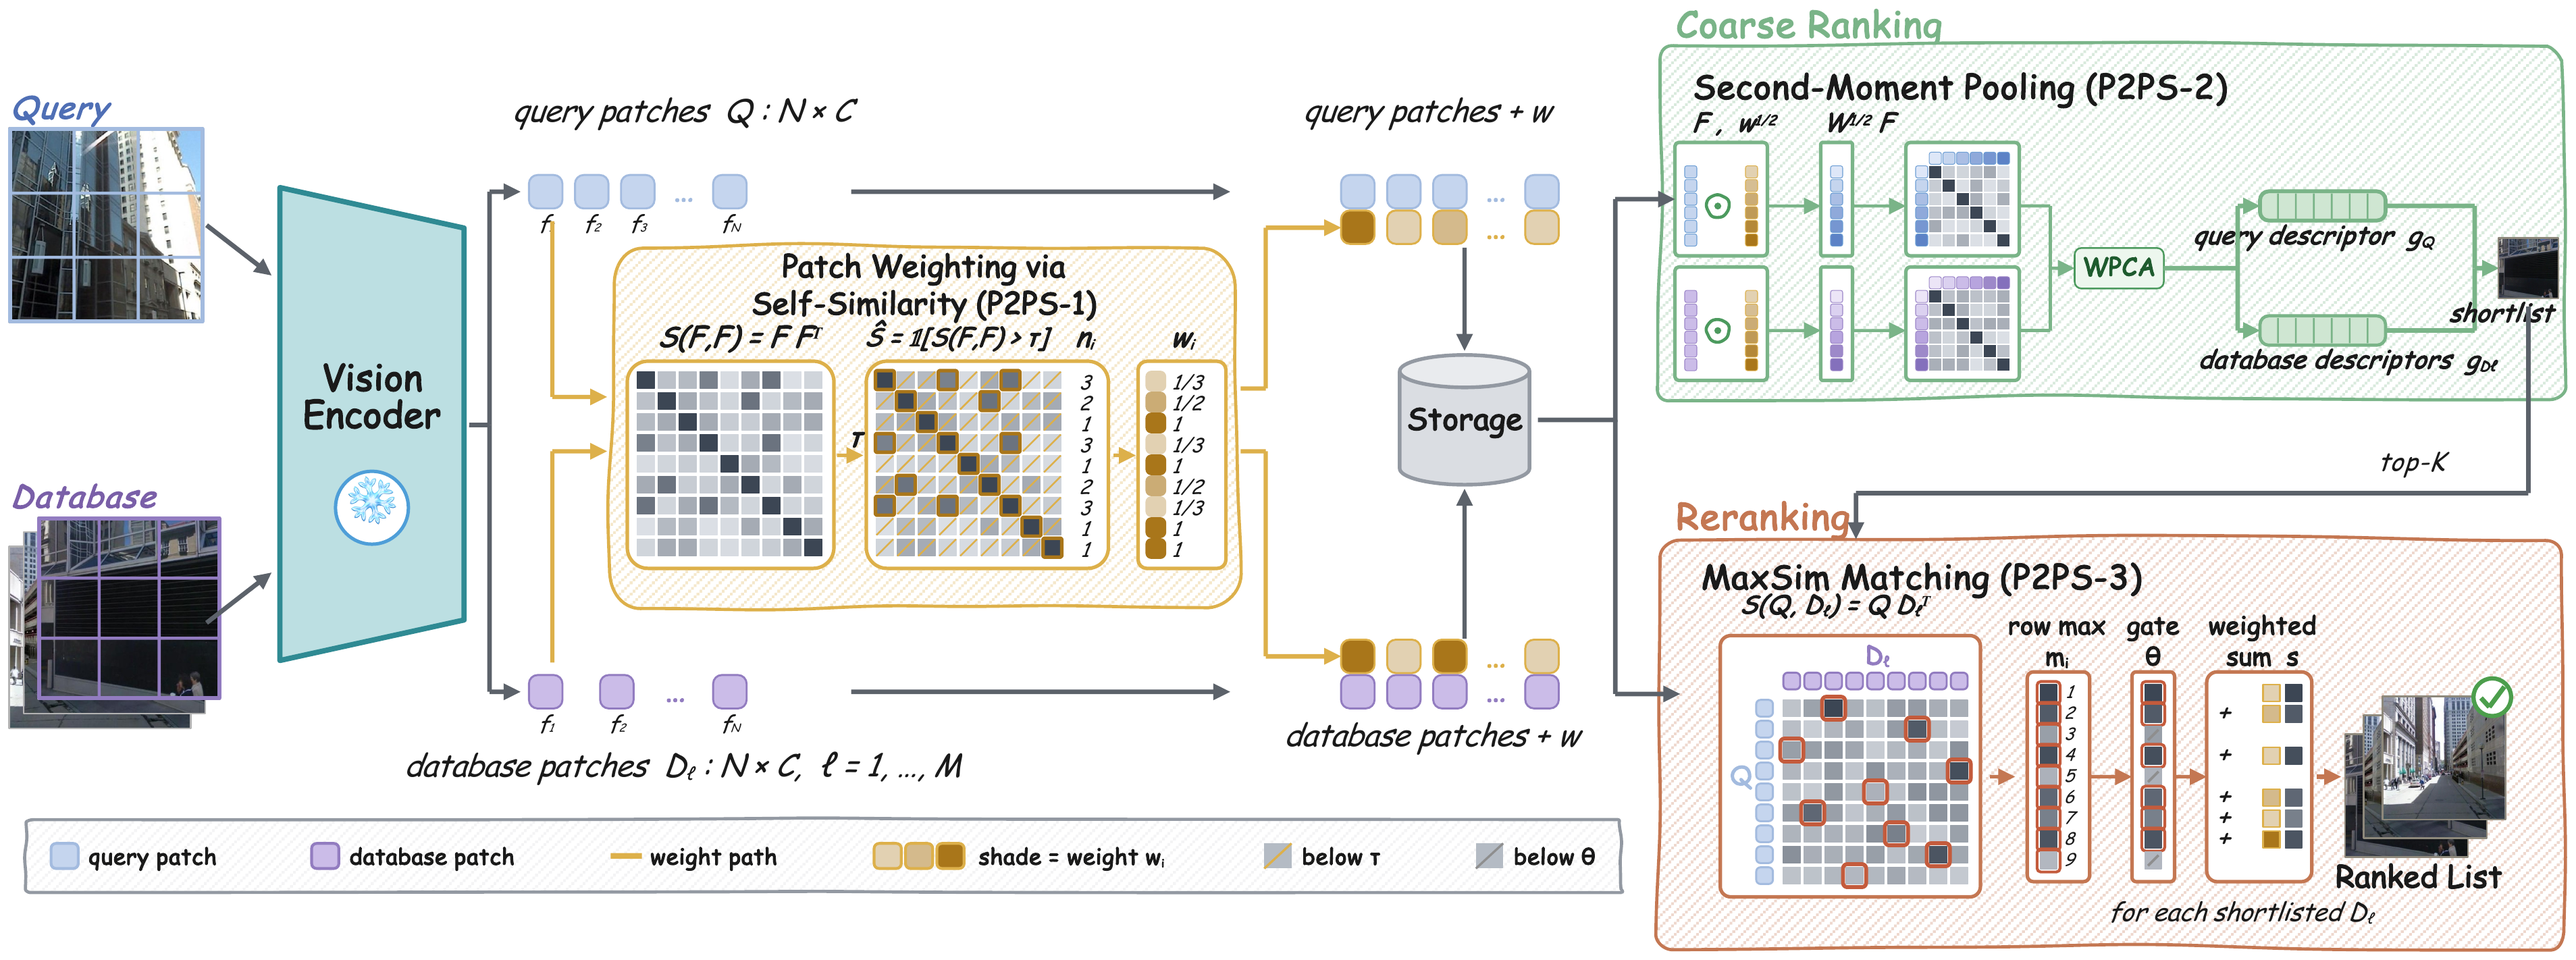
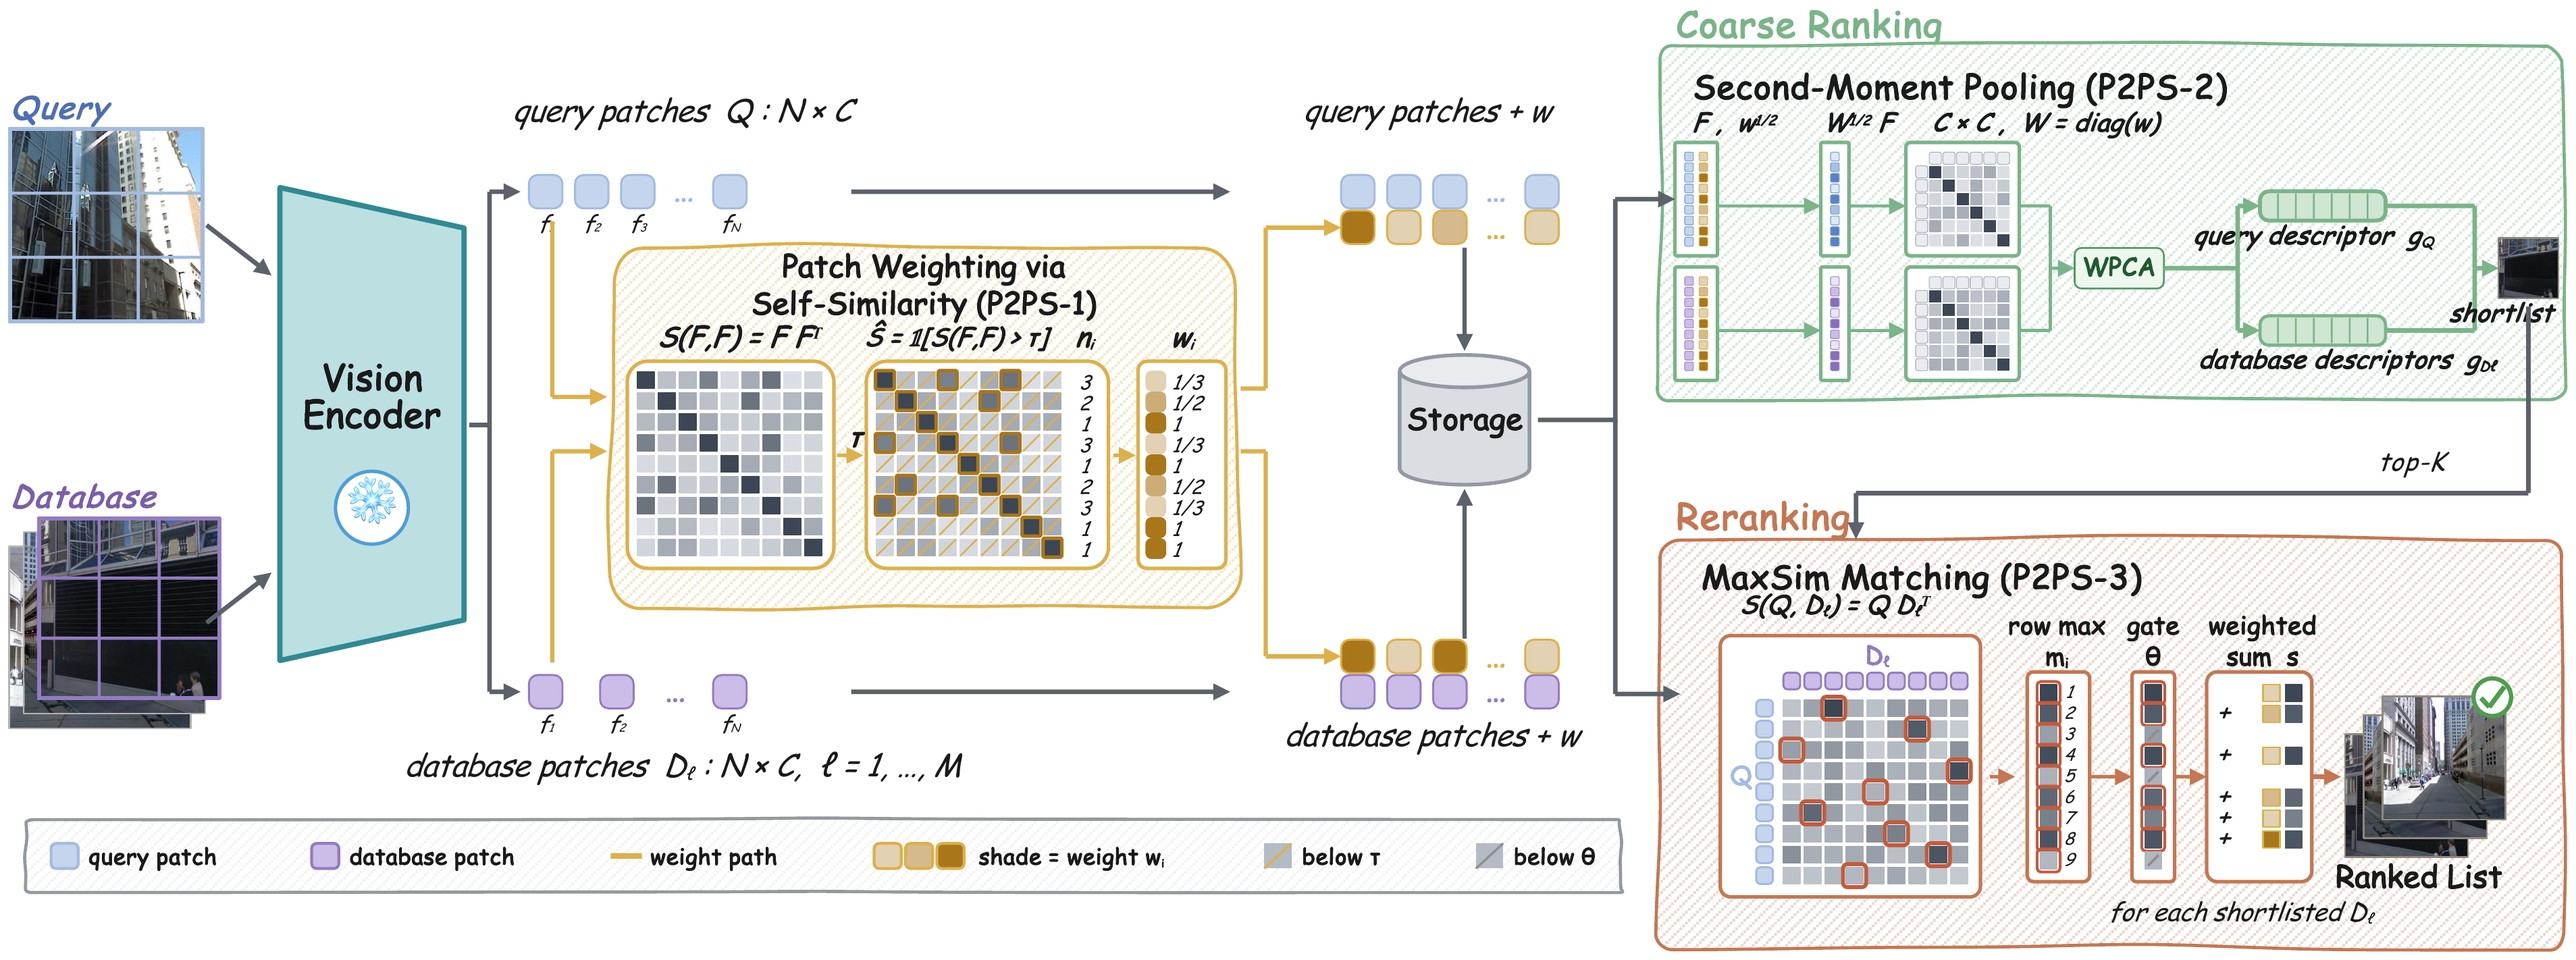
figure 2 coarse stage agrees with Eq. 3: N=9, the weights P2PS-1 produces, channel-indexed second-moment matrix; text states its shape

Changed region(s): [[0.655, 0.1238, 0.7486, 0.4023], [0.7486, 0.1238, 0.8422, 0.1857], [0.7486, 0.2785, 0.7798, 0.3094]]

diff --git a/sections/03_method.tex b/sections/03_method.tex
@@ -55,7 +55,7 @@ During coarse ranking, the query is compared with the whole database $\mathcal D
 \begin{equation}\label{eq:gc}
   S_C(F)=S\big((W^{1/2}F)^{\top},(W^{1/2}F)^{\top}\big)=F^{\top}WF=\sum_{i=1}^{N} w_i\,\mathbf f_i\mathbf f_i^{\top}.
 \end{equation}
-As $S_C$ is high-dimensional, we apply $\ell_2$ normalization and whitened PCA (WPCA), denoted $\rho$, to obtain a compact descriptor $\mathbf g=\rho(S_C)$ for efficient large-scale search.  % CHEN-CHECK: bcnn and mpncov are in the bib but not yet Scholar-checked.
+The weights act on the patch axis, so $S_C(F)\in\mathbb R^{C\times C}$ is indexed by feature channels, not by patches. As $S_C$ is high-dimensional, we apply $\ell_2$ normalization and whitened PCA (WPCA), denoted $\rho$, to obtain a compact descriptor $\mathbf g=\rho(S_C)$ for efficient large-scale search.  % CHEN-CHECK: bcnn and mpncov are in the bib but not yet Scholar-checked.
 Denoting the query and the $\ell$-th database descriptors by $\mathbf g_Q$ and $\mathbf g_{D_\ell}$, coarse ranking sorts all database images by $\mathbf g_Q^{\top}\mathbf g_{D_\ell}$, and the top-$K$ images are passed to reranking.
 
 \paragraph{Reranking (P2PS-3).}
